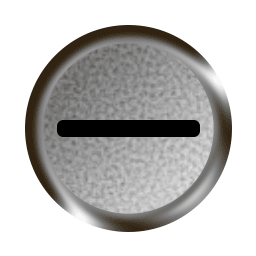
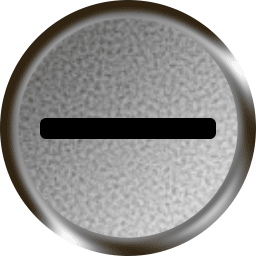
Dot bar screws now have drop shadows.

diff --git a/resources/public/css/style.css b/resources/public/css/style.css
@@ -54,7 +54,7 @@ input, select, textarea {
   border-right: none;
   border-top: none;
   margin-bottom: 3.0px;
-  box-shadow: inset 0 0px 5px #666666;
+  box-shadow: inset 0 0 4px #666666;
   margin-left: 5.0px;
   background-color: transparent;
   padding-right: 0;
@@ -535,7 +535,7 @@ form p .field .dot-bar {
   top: 5px;
   height: 15px;
   position: relative;
-  box-shadow: inset 0 0px 5px #666666;
+  box-shadow: inset 0 0 4px #666666;
   padding-right: 0;
   border-radius: 10px;
   display: inline-block;
@@ -545,17 +545,17 @@ form p .field .dot-bar {
 }
 
 form p .field .dot-bar button {
-  width: 15px;
+  width: 13px;
   background-position: center;
-  height: 15px;
+  height: 13px;
   border: none;
   padding: 0;
   position: relative;
   background-size: cover;
-  box-shadow: none;
+  box-shadow: 0 0 4px #666666;
   background-color: transparent;
-  border-radius: 0px;
-  bottom: 2px;
+  border-radius: 20px;
+  bottom: 1px;
   color: transparent;
 }
 
@@ -569,7 +569,7 @@ form p .field .dot-bar .plus {
 
 form p .field .dot-bar .inactive-dot, form p .field .dot-bar .active-dot {
   width: 15px;
-  botom: 1px;
+  botom: 3px;
   background-position: center;
   height: 15px;
   margin: 0;
@@ -578,6 +578,7 @@ form p .field .dot-bar .inactive-dot, form p .field .dot-bar .active-dot {
   position: relative;
   background-size: cover;
   margin-left: 1px;
+  border-radius: 20px;
   display: inline-block;
 }
 
